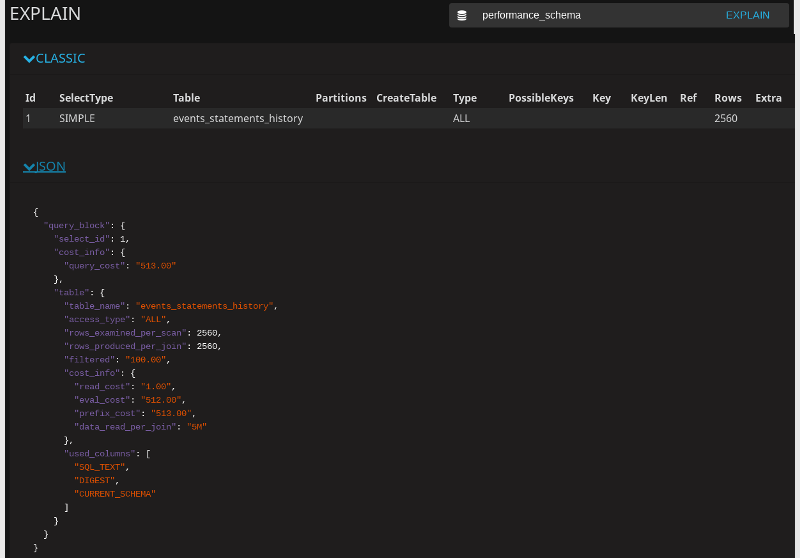
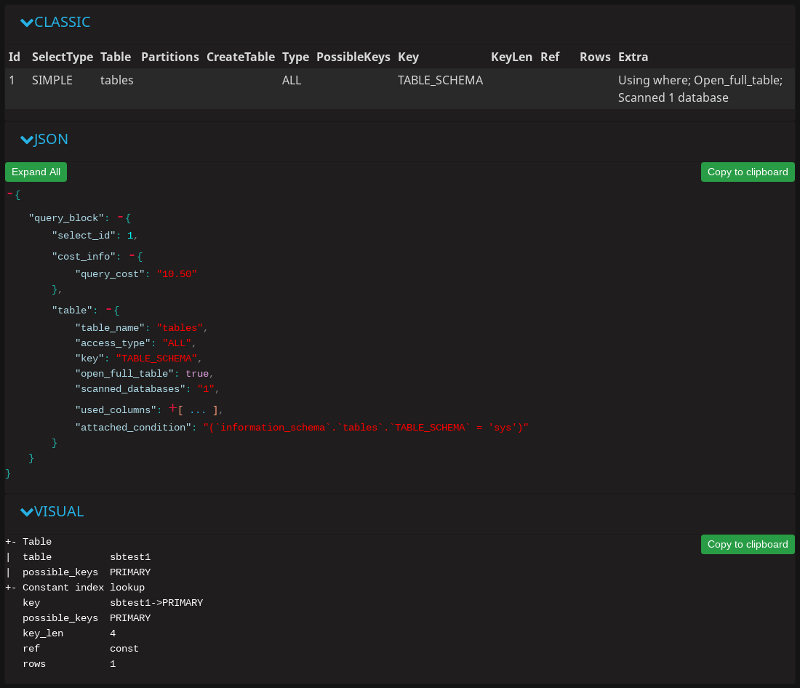
PMM-2542 #close Update documentation

diff --git a/doc/source/chapter.qan.rst b/doc/source/chapter.qan.rst
@@ -203,13 +203,21 @@ directly from the PMM web interface (simply specify the database).
 
 .. image:: .res/graphics/png/qan-realtime-explain.png
 
-The output appears in two forms: classic and |json|. The classic form presents
-the attributes of the |sql.explain| command as columns of a table. The JSON
-format presents the output of |sql.explain| as a |json| document.
+The output appears in three forms: classic, |json| and visual. The classic form
+presents the attributes of the |sql.explain| command as columns of a table. The
+JSON format presents the output of |sql.explain| as a |json| document. To help
+you better understand how the query has been optimized, the visual form shows
+how the query accesses the tables it includes. The output of the visual form is
+identical to that of |pt-visual-explain|.
+
+.. note::
+
+   Use the |gui.copy-to-clipboard| button to save the output and pass it to
+   external tools, such as |pt-visual-explain|.
 
 .. figure:: .res/graphics/png/pmm.qan.explain.1.png
 
-   The two output formats of the |sql.explain| command.
+   The three output formats of the |sql.explain| command.
 
 Note that the |sql.explain| command only works with the following statements:
 
@@ -221,6 +229,12 @@ Note that the |sql.explain| command only works with the following statements:
 	    
 If you are viewing the details of a query of another type, the
 |gui.explain| section will not contain any data.
+
+.. admonition:: Related information
+
+   |pt-visual-explain|: a tool to show the query plan based on the |sql.explain| output
+      https://www.percona.com/doc/percona-toolkit/LATEST/pt-visual-explain.html
+
 
 .. _pmm.qan.table-info-section:
 
